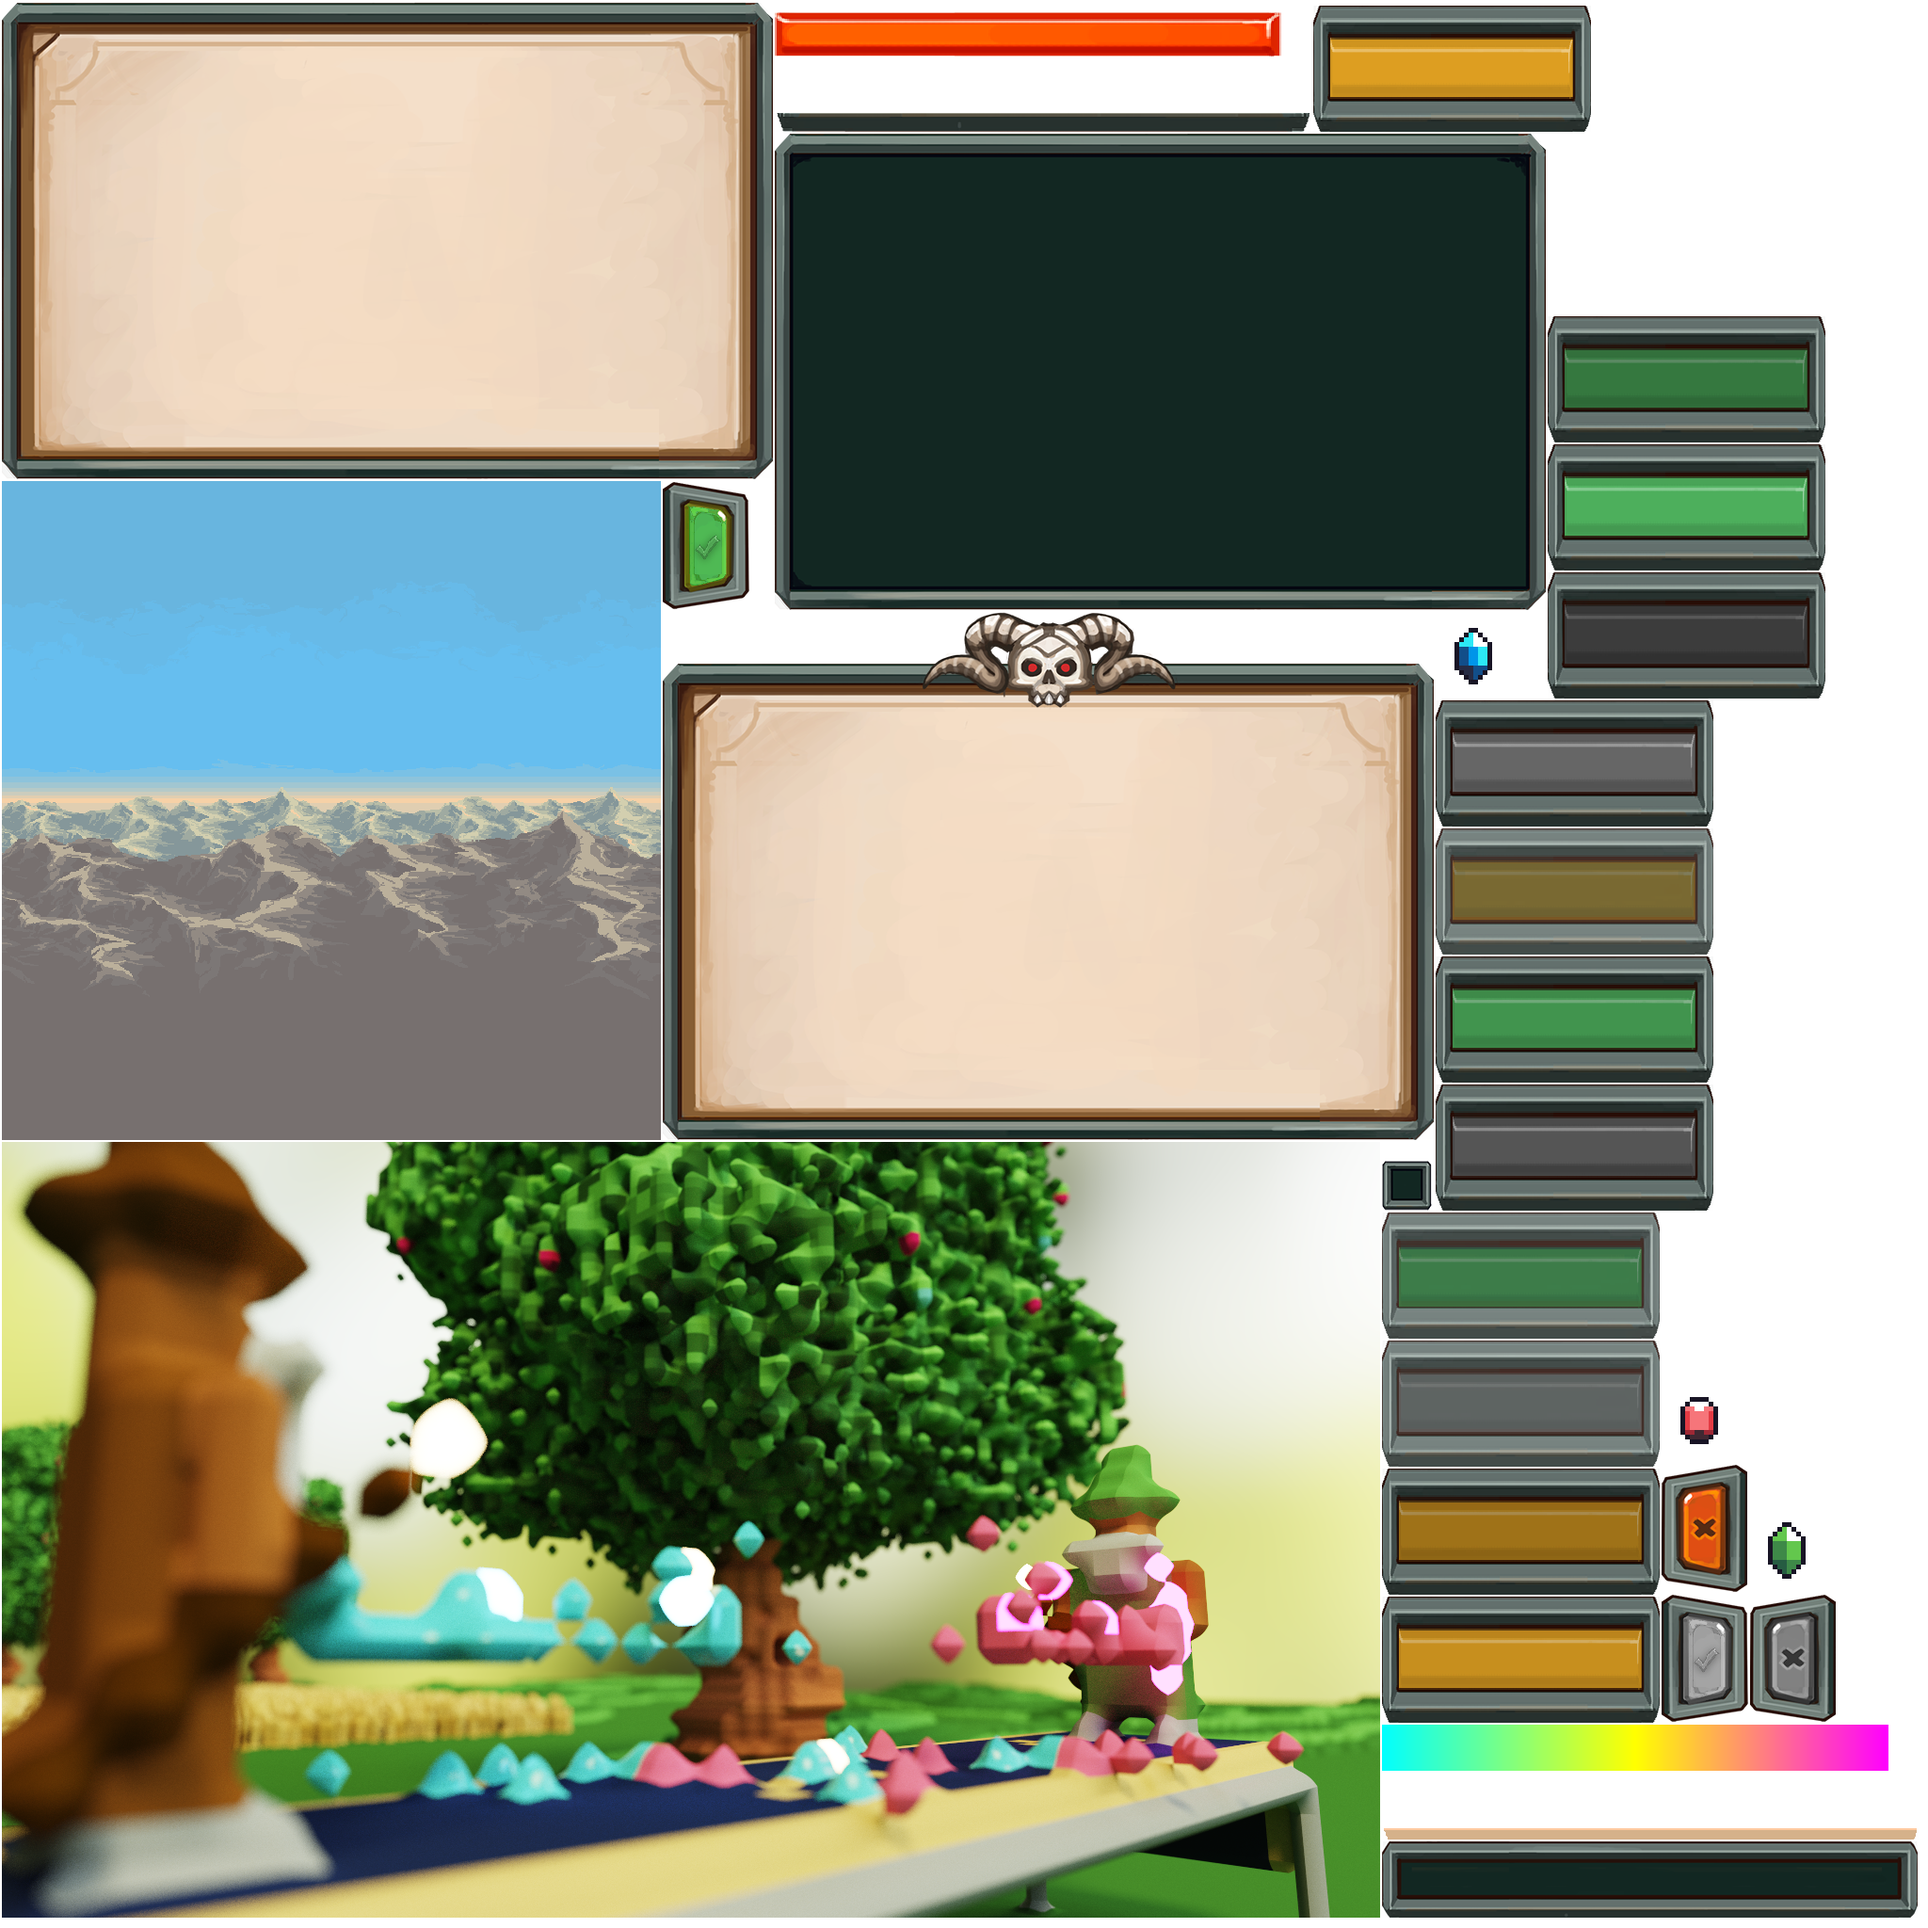
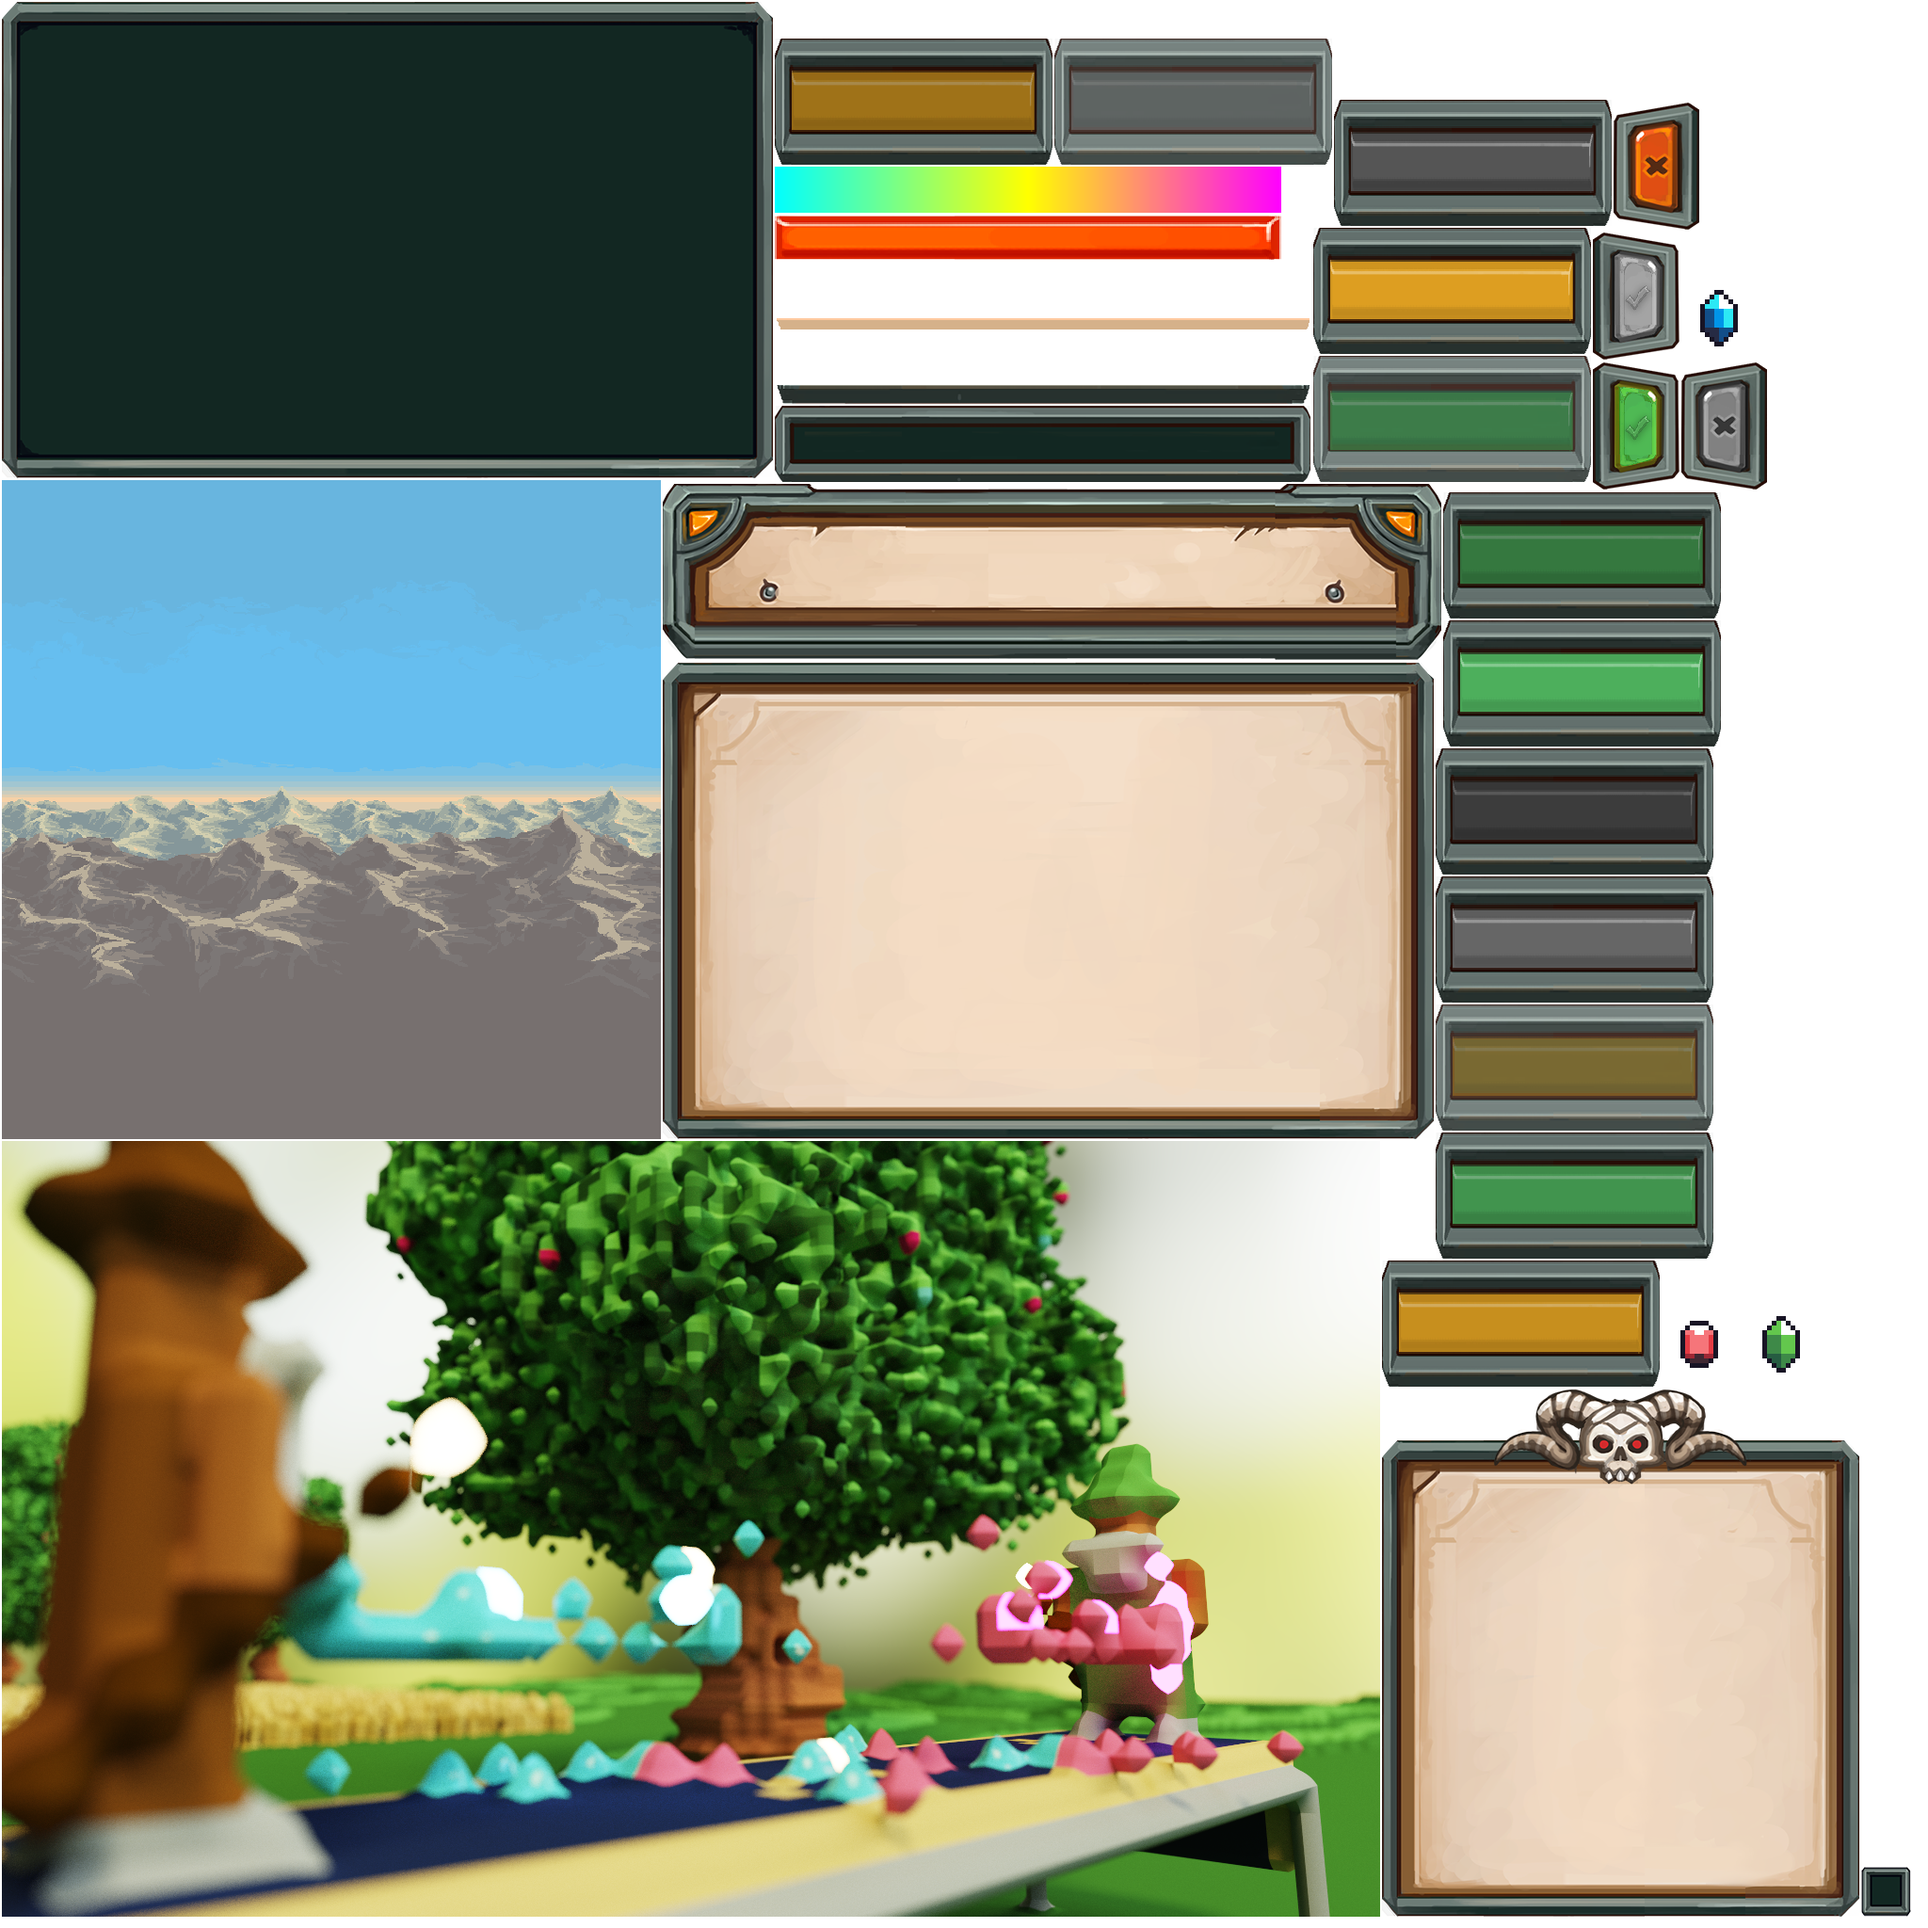
Add better scaled asset for the element table

diff --git a/core/src/main/kotlin/no/ntnu/beardblaster/ui/Skin.kt b/core/src/main/kotlin/no/ntnu/beardblaster/ui/Skin.kt
@@ -46,7 +46,7 @@ enum class Image(val atlasKey: String) {
     Background("background"),
     BackgroundSecondary("epic_mage_battle_3000_x2"),
     Modal("modal_fancy"),
-    ModalSkull("modal_fancy_skull"),
+    ModalSkull("modal_fancy_skull2"),
     ModalHeader("modal_fancy_header"),
     ModalDark("modal_fancy_dark"),
 
